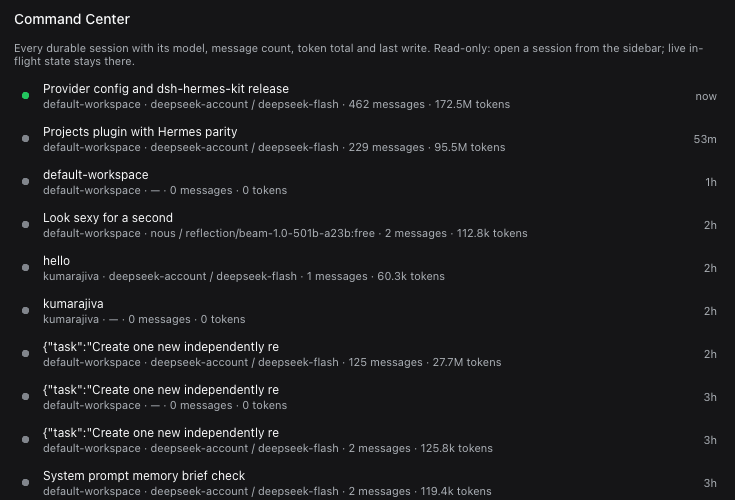
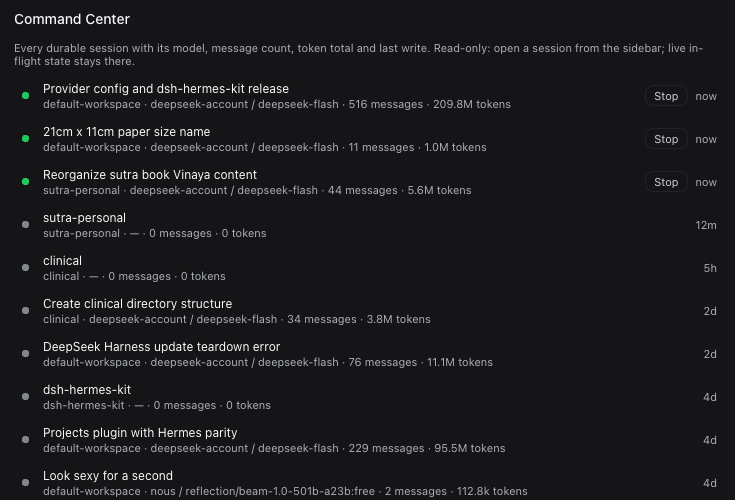
kanban agent tool and Command Center stop

diff --git a/packages/toolbox/index.js b/packages/toolbox/index.js
@@ -11,6 +11,7 @@
  * Nothing here talks to a model. The session-log read is bounded to the newest
  * sessions and cached briefly, because each file is zstd-compressed JSONL.
  */
+import { defineTool } from '@deepseek-ai/dsh-tools'
 import { execFile } from 'node:child_process'
 import { promises as fs } from 'node:fs'
 import os from 'node:os'
@@ -29,8 +30,8 @@ const SESSIONS = path.join(HOME, '.dsh', 'sessions')
 const SESSION_LIMIT = 40
 const CACHE_MS = 60_000
 
-/** Required carrier service for the authenticated route registry. */
-export const inject = ['connection']
+/** Required carrier and tool registry. */
+export const inject = ['connection', 'tools']
 
 /** @type {null | { at: number, value: unknown }} */
 let providerCache = null
@@ -338,8 +339,88 @@ async function writeBoard(body) {
   return clean
 }
 
+/** Locate a column by id or case-insensitive title. */
+function columnOf(board, wanted) {
+  if (wanted === undefined || wanted === '') return board.columns[0]
+  const low = String(wanted).toLowerCase()
+  return board.columns.find((column) => column.id.toLowerCase() === low || column.title.toLowerCase() === low)
+}
+
+/** Locate a card by id or case-insensitive text. */
+function cardOf(board, wanted) {
+  const low = String(wanted).toLowerCase()
+  for (const column of board.columns) {
+    const card = column.cards.find((c) => c.id === wanted) || column.cards.find((c) => c.text.toLowerCase() === low)
+    if (card !== undefined) return { column, card }
+  }
+  return undefined
+}
+
+/** One-line board summary for the tool result. */
+function boardText(board) {
+  return board.columns.map((column) => `${column.title} (${column.cards.length}): ${column.cards.map((card) => card.text).join(' | ') || '—'}`).join('\n')
+}
+
 /** Register the panel's routes for this plugin's lifetime. */
 export function apply(ctx) {
+  ctx.tools.register(
+    defineTool({
+      name: 'kanban',
+      description:
+        'Read or change the shared kanban board shown in the Harness Kanban panel. Actions: list, add, move, remove. Cards are identified by their exact text or id; columns by id or title (Todo/Doing/Done).',
+      parameters: {
+        action: { type: 'string', description: 'One of: list, add, move, remove.', required: true },
+        column: { type: 'string', description: 'Target column id or title (Todo, Doing, Done). Defaults to Todo for add.' },
+        text: { type: 'string', description: 'Card text for add.' },
+        card: { type: 'string', description: 'Card text or id for move/remove.' },
+        position: { type: 'number', description: 'Zero-based position inside the target column for move; omit to append.' },
+      },
+      output: {
+        schema: {
+          type: 'object',
+          additionalProperties: false,
+          properties: {
+            ok: { type: 'boolean', required: true },
+            message: { type: 'string', required: true },
+            board: { type: 'string', required: true },
+          },
+        },
+        render: (_args, value) => [{ type: 'text', text: `${value.message}\n\n${value.board}` }],
+      },
+      async execute(args) {
+        const board = await readBoard()
+        const action = String(args.action || 'list').toLowerCase()
+        let message = 'Board read.'
+        if (action === 'add') {
+          const text = String(args.text || '').trim()
+          if (text === '') throw new Error('kanban add requires text')
+          const column = columnOf(board, args.column)
+          if (column === undefined) throw new Error(`unknown column: ${args.column}`)
+          column.cards.push({ id: `${Date.now()}-${Math.random().toString(36).slice(2, 7)}`, text: text.slice(0, 500) })
+          message = `Added "${text}" to ${column.title}.`
+        } else if (action === 'move') {
+          const found = cardOf(board, args.card)
+          if (found === undefined) throw new Error(`card not found: ${args.card}`)
+          const target = columnOf(board, args.column)
+          if (target === undefined) throw new Error(`unknown column: ${args.column}`)
+          found.column.cards = found.column.cards.filter((card) => card.id !== found.card.id)
+          const at = args.position === undefined ? target.cards.length : Math.max(0, Math.min(Number(args.position), target.cards.length))
+          target.cards.splice(at, 0, found.card)
+          message = `Moved "${found.card.text}" to ${target.title} at ${at}.`
+        } else if (action === 'remove') {
+          const found = cardOf(board, args.card)
+          if (found === undefined) throw new Error(`card not found: ${args.card}`)
+          found.column.cards = found.column.cards.filter((card) => card.id !== found.card.id)
+          message = `Removed "${found.card.text}".`
+        } else if (action !== 'list') {
+          throw new Error(`unknown action: ${args.action}`)
+        }
+        if (action !== 'list') await writeBoard(board)
+        return { ok: true, message, board: boardText(board) }
+      },
+    }),
+  )
+
   ctx.effect(
     () =>
       ctx.connection.fetch.register({

diff --git a/packages/toolbox/client.js b/packages/toolbox/client.js
@@ -451,16 +451,30 @@ window.__ModuleLoader__.load({
       )
     }
 
-    function CommandTab({ t }) {
+    function CommandTab({ t, stop }) {
       const [data, setData] = useState(null)
       const [error, setError] = useState(null)
-      useEffect(() => {
+      const [stopping, setStopping] = useState(null)
+      const load = useCallback(() => {
         fetchJson('/api/toolbox/sessions').then(setData).catch((e) => setError(e.message))
       }, [])
+      useEffect(load, [load])
       if (error) return h('div', { className: 'tbx-error' }, error)
       if (data === null) return h('div', { className: 'tbx-empty' }, t('loading'))
       if (data.rows.length === 0) return h('div', { className: 'tbx-empty' }, t('command.empty'))
       const workspace = (cwd) => (cwd || '').split('/').filter(Boolean).pop() || '—'
+      const cancel = async (row) => {
+        setStopping(row.id)
+        try {
+          const result = await stop(row.id)
+          if (result?.ok === false) setError(result.error?.message || t('command.stopFailed'))
+          window.setTimeout(load, 1200)
+        } catch (e) {
+          setError(e.message)
+        } finally {
+          setStopping(null)
+        }
+      }
       return h(
         'div',
         { className: 'tbx-list' },
@@ -478,19 +492,27 @@ window.__ModuleLoader__.load({
               `${workspace(row.cwd)} · ${row.model || '—'} · ${row.messages} ${t('sessions.messagesShort')} · ${n(row.tokens)} ${t('sessions.tokensShort')}`,
             ),
           ),
+          row.active
+            ? h('button', {
+                type: 'button',
+                className: 'tbx-btn',
+                disabled: stopping === row.id,
+                onClick: () => void cancel(row),
+              }, stopping === row.id ? t('command.stopping') : t('command.stop'))
+            : null,
           h('span', { className: 'tbx-muted' }, ago(row.updatedAt)),
         )),
       )
     }
 
-    function CommandPage({ t }) {
+    function CommandPage({ t, stop }) {
       return h(
         'div',
         { className: 'tbx-page' },
         h('div', { className: 'tbx-head' }, h('span', { className: 'tbx-title' }, t('command.title'))),
         h('div', { className: 'tbx-body' },
           h('div', { className: 'tbx-note' }, t('command.note')),
-          h(CommandTab, { t }),
+          h(CommandTab, { t, stop }),
         ),
       )
     }
@@ -602,6 +624,9 @@ window.__ModuleLoader__.load({
       'command.title': 'Command Center',
       'command.note': 'Every durable session with its model, message count, token total and last write. Read-only: open a session from the sidebar; live in-flight state stays there.',
       'command.empty': 'No sessions found.',
+      'command.stop': 'Stop',
+      'command.stopping': 'Stopping…',
+      'command.stopFailed': 'The session did not accept the stop request.',
       'sessions.status': 'Status',
       'sessions.title': 'Session',
       'sessions.workspace': 'Workspace',
@@ -652,6 +677,9 @@ window.__ModuleLoader__.load({
       'command.title': '指挥中心',
       'command.note': '每个持久会话的模型、消息数、token 总量与最近写入。只读：从左侧边栏打开会话。',
       'command.empty': '没有会话。',
+      'command.stop': '停止',
+      'command.stopping': '停止中…',
+      'command.stopFailed': '会话没有接受停止请求。',
       'sessions.status': '状态',
       'sessions.title': '会话',
       'sessions.workspace': '工作区',
@@ -694,6 +722,7 @@ window.__ModuleLoader__.load({
     function apply(ctx) {
       ctx.effect(() => ctx.locale.register(NS, { en, zh }), 'toolbox: dictionaries')
       const t = ctx.locale.bind(NS)
+      const stopSession = (sessionId) => ctx.remote.session.cancel({ sessionId })
       const rows = [
         { key: 'skills', order: 23, label: 'skills.title', icon: SkillsIcon },
         { key: 'providers', order: 24, label: 'providers.title', icon: ProvidersIcon },
@@ -708,7 +737,12 @@ window.__ModuleLoader__.load({
           ),
         )
       }
-      const pages = { skills: SkillsPage, providers: ProvidersPage, kanban: KanbanPage, command: CommandPage }
+      const pages = {
+        skills: SkillsPage,
+        providers: ProvidersPage,
+        kanban: KanbanPage,
+        command: (props) => h(CommandPage, { ...props, stop: stopSession }),
+      }
       for (const key of Object.keys(pages)) {
         ctx.slots.inject('main', () =>
           ctx.slots.register({ name: 'main', key, locale: NS }, pages[key]),
@@ -716,6 +750,6 @@ window.__ModuleLoader__.load({
       }
     }
 
-    return { inject: ['slots', 'locale'], apply }
+    return { inject: ['slots', 'locale', 'remote'], apply }
   },
 })

diff --git a/packages/toolbox/README.md b/packages/toolbox/README.md
@@ -4,8 +4,8 @@ A Toolbox package for DeepSeek Harness that registers four separate sidebar pane
 
 - **Skills** — every skill in `~/.dsh/skills` plus the retired set in `~/.dsh/skills-retired`, with the curator's load count and last-seen time, sortable by loads/recent/name, a "never fired" filter, duplicate-name badges, and a switch that moves a skill between the two directories. Disabling is a directory move, because a leading dot does not hide a skill from DSH's catalogue.
 - **Providers** — per provider/model totals read from the newest 40 session logs (concatenated zstd JSONL): messages, input/output/cache tokens, mean response time, error count, last used. Cached for a minute on the Host.
-- **Kanban** — a three-column board persisted at `~/.dsh/toolbox/board.json`: drag to any position, double-click to edit a card, add and remove.
-- **Command Center** — every durable session with status, model, message count, token total and last write, read from the session logs. Read-only: opening a session stays with the sidebar.
+- **Kanban** — a three-column board persisted at `~/.dsh/toolbox/board.json`: drag to any position, double-click to edit a card, add and remove. A Host `kanban` tool (`list` / `add` / `move` / `remove`) lets the agent read and change the same board.
+- **Command Center** — every durable session with status, model, message count, token total and last write, read from the session logs. Active rows carry a **Stop** button wired to `session/cancel`; opening a session stays with the sidebar.
 
 Host routes, all under `/api/toolbox/`:
 

diff --git a/docs/improvements.md b/docs/improvements.md
@@ -91,7 +91,7 @@ Ten to fifteen concrete next steps for every surface shipped with the kit. Effor
 5. **WIP limits** — per column, with a counter and a soft warning. (S)
 6. **Per-workspace boards** — one board per workspace instead of one global file. (M)
 7. **Multiple boards** — swimlanes or named boards. (L)
-8. **Agent surface** — a tool/command so the agent can add and move cards. (M)
+8. **Agent surface** — a tool/command so the agent can add and move cards. (M) ✅ shipped: `kanban` tool
 9. **Undo delete** — a toast that restores the card. (S)
 10. **Collapse Done** — keep finished work out of the way. (S)
 11. **Filter** — by text and label. (S)
@@ -102,7 +102,7 @@ Ten to fifteen concrete next steps for every surface shipped with the kit. Effor
 ## Command Center
 
 1. **Open** — click a row to focus that session. (L — client session-open API)
-2. **Stop / steer** — `session/cancel` and queue edits with confirmation. (L)
+2. **Stop / steer** — `session/cancel` and queue edits with confirmation. (L) ◐ shipped: Stop wired to `session/cancel`; steer still open
 3. **Live state** — running/awaiting from the client session store, not log mtime. (M)
 4. **Pending approvals** — show which sessions are blocked on a question. (M)
 5. **Subagent tree** — parent/child lineage instead of a flat list. (M)

diff --git a/README.md b/README.md
@@ -74,11 +74,11 @@ Four separate sidebar panels from one package.
 
 ![Provider health](docs/images/toolbox-providers.png)
 
-**Kanban** — three columns persisted at `~/.dsh/toolbox/board.json`: drag a card to any position (not just the column end), double-click to edit it in place, add and remove.
+**Kanban** — three columns persisted at `~/.dsh/toolbox/board.json`: drag a card to any position (not just the column end), double-click to edit it in place, add and remove. The agent gets a `kanban` tool with the same actions, so it can read and move the board too.
 
 ![Kanban board](docs/images/toolbox-kanban.png)
 
-**Command Center** — every durable session with its status, model, message count, token total and last write. Read-only for now: open a session from the sidebar, and live in-flight state stays there.
+**Command Center** — every durable session with its status, model, message count, token total and last write, plus a **Stop** button that cancels an active session's current turn. Opening a session still happens from the sidebar.
 
 ![Command Center](docs/images/command-center.png)
 

diff --git a/TODO.md b/TODO.md
@@ -3,7 +3,7 @@
 ## Next
 
 - [ ] Session import from ChatGPT / Claude exports (needs a validated session-file writer; verify with a relaunch)
-- [ ] Command Center: open/steer/stop (needs the live session projection and workspace selection APIs)
+- [ ] Command Center: open and steer (needs the workspace selection API); Stop shipped
 - [ ] Command Center actions: open, steer, stop (needs the live session projection API, not just log files)
 
 ## Later
@@ -20,4 +20,6 @@
 - [x] Kanban insert at drop position + double-click card editing
 - [x] Skills sort, never-fired filter, duplicate-name badges
 - [x] Provider mean response time
+- [x] Command Center Stop (session/cancel)
+- [x] `kanban` agent tool (list/add/move/remove)
 - [x] One-command installer and CLI kit (memory, checkpoints, curator, registry, skill audit)
